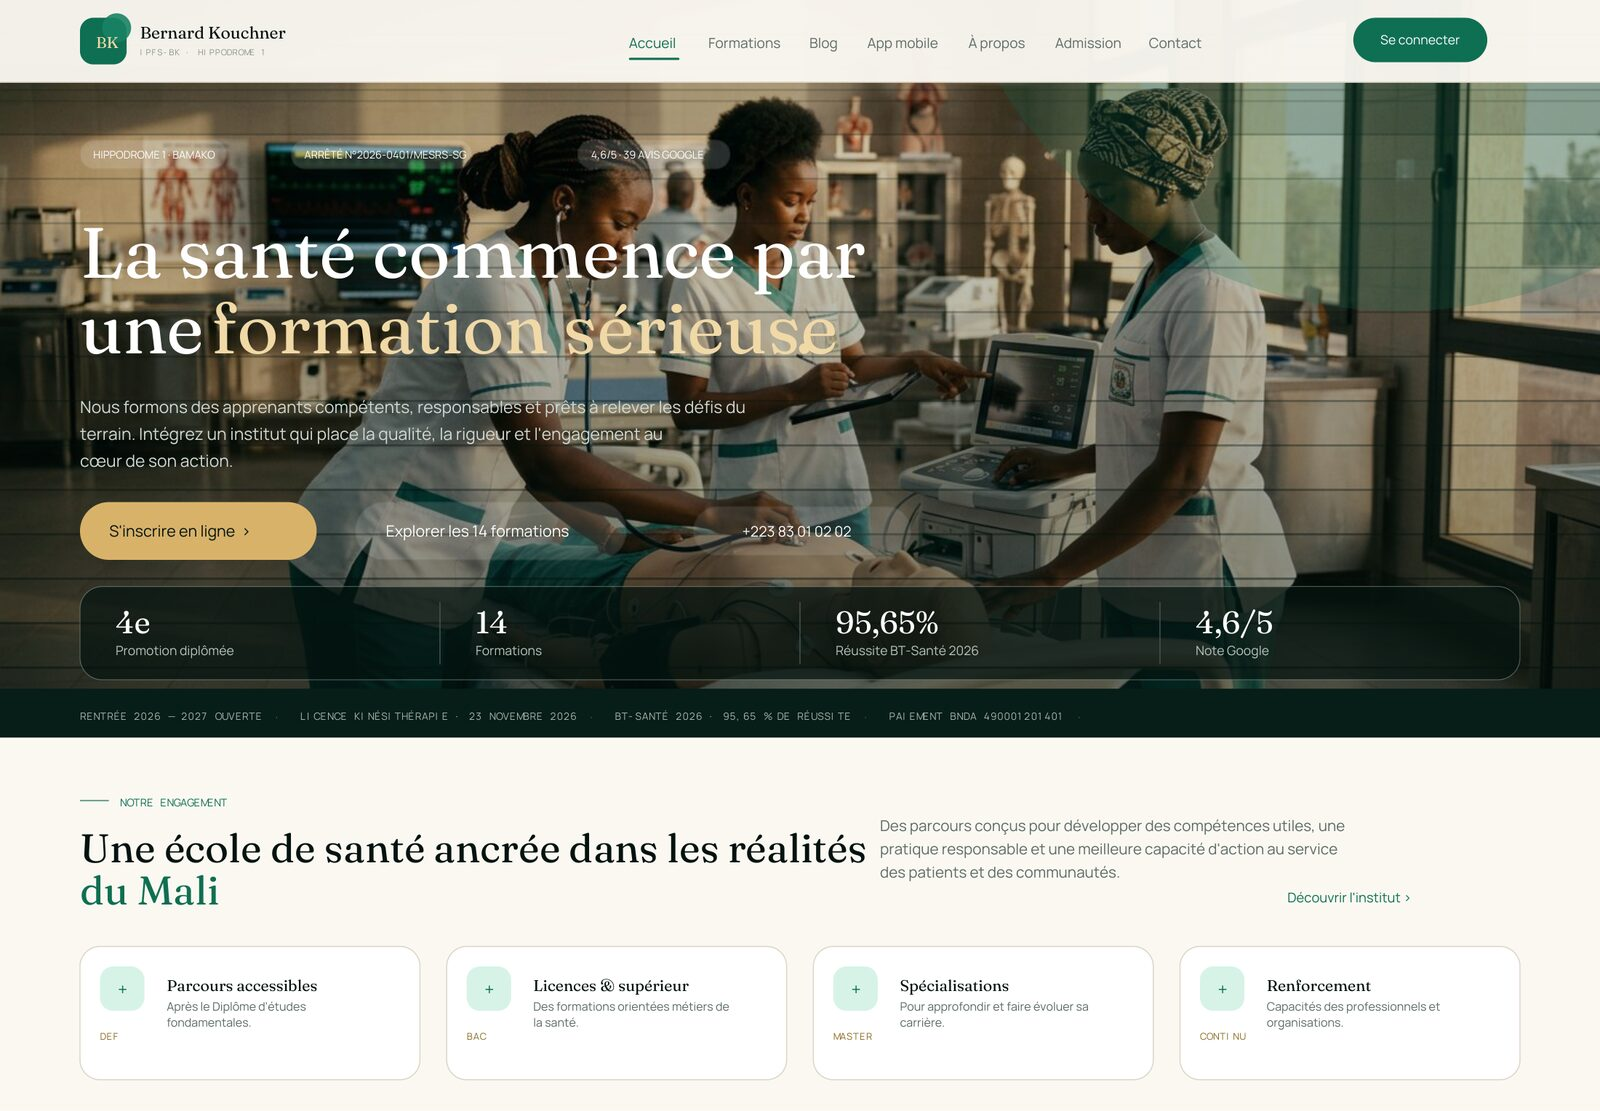
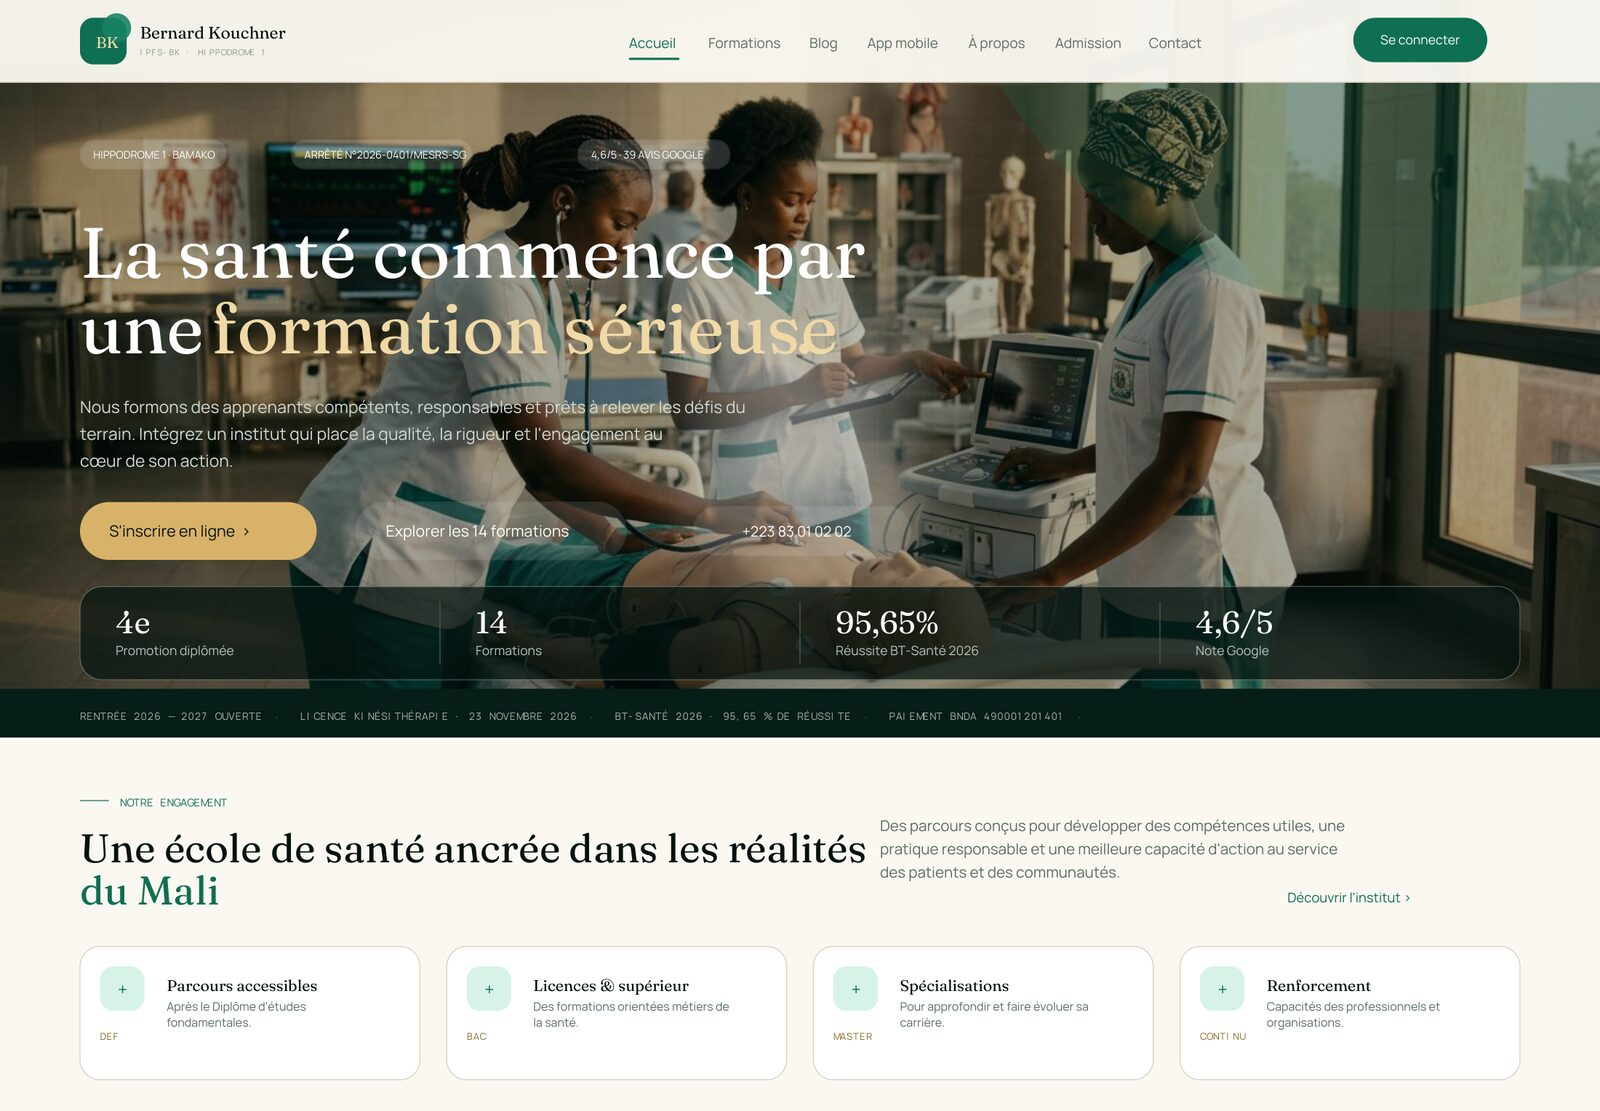
Site IPFS-BK : titres de page, voiles dégradés des aperçus

diff --git a/site/src/App.jsx b/site/src/App.jsx
@@ -15,10 +15,26 @@ import Espace from './pages/Espace.jsx';
 import { formations, articles, school } from './data/content.js';
 import { MessageCircleIcon as MessageCircle } from 'lucide-react';
 
+const TITLES = {
+  '/': 'Institut Bernard Kouchner — IPFS-BK | École de santé à Bamako',
+  '/formations': 'Formations sanitaires — IPFS-BK Bamako',
+  '/blog': 'Actualités & blog — Institut Bernard Kouchner',
+  '/application': 'Application mobile — IPFS-BK',
+  '/a-propos': 'À propos — Institut Bernard Kouchner, Hippodrome 1',
+  '/admission': 'Admission en ligne — IPFS-BK',
+  '/contact': 'Contact — Institut Bernard Kouchner, Bamako',
+  '/personnel': 'Espace personnel — Version PC | IPFS-BK',
+  '/espace': 'Mon espace — IPFS-BK',
+  '/espace/connexion': 'Connexion — IPFS-BK',
+};
+
 function ScrollRestore() {
   const { pathname } = useLocation();
   useEffect(() => {
     window.scrollTo(0, 0);
+    const base = '/' + (pathname.split('/')[1] || '');
+    const title = TITLES[pathname] || TITLES[base];
+    if (title) document.title = title;
   }, [pathname]);
   return null;
 }

diff --git a/site/scripts/preview.py b/site/scripts/preview.py
@@ -257,6 +257,28 @@ class Canvas:
         self.text(self.w - 72, self.h - 24, "BNDA 490001201401 · Arrêté n°2026-0401/MESRS-SG", size=9,
                   color=(0.5, 0.56, 0.53), anchor="right")
 
+    def soft(self, x, y, w, h, color=WHITE, opacity=0.2, feather=22):
+        """Voile translucide à bords fondus (dégradé alpha) — pas de bandes visibles."""
+        import numpy as np
+
+        size = 64
+        rgb = [int(v * 255) for v in color]
+        alpha = np.full((size, size), int(opacity * 255), dtype=np.uint8)
+        edge = np.linspace(0, int(opacity * 255), feather).astype(np.uint8)
+        alpha[:feather, :] = np.minimum(alpha[:feather, :], edge[:, None])
+        alpha[-feather:, :] = np.minimum(alpha[-feather:, :], edge[::-1][:, None])
+        alpha[:, :feather] = np.minimum(alpha[:, :feather], edge[None, :])
+        alpha[:, -feather:] = np.minimum(alpha[:, -feather:], edge[::-1][None, :])
+
+        base = pymupdf.Pixmap(pymupdf.csRGB, pymupdf.IRect(0, 0, size, size), False)
+        base.set_rect(base.irect, tuple(rgb))
+        mask = pymupdf.Pixmap(pymupdf.csGRAY, pymupdf.IRect(0, 0, size, size), False)
+        mask.set_rect(mask.irect, (255,))
+        for row in range(size):
+            for col in range(size):
+                mask.set_pixel(row, col, (int(alpha[row, col]),))
+        self.page.insert_image(pymupdf.Rect(x, y, x + w, y + h), pixmap=pymupdf.Pixmap(base, mask))
+
     def save(self, name):
         pix = self.page.get_pixmap(dpi=110)
         target = OUT / f"{name}.png"
@@ -269,18 +291,16 @@ class Canvas:
 def page_home():
     c = Canvas()
     c.img("hero.jpg", 0, 0, W, 620)
-    for i in range(16):
-        y0 = i * 40
-        c.rect(0, y0, W, 42, fill=INK, opacity=0.16 + 0.42 * (i / 15) ** 1.6)
-    for i in range(4):
-        c.rect(0, i * 30, W, 32, fill=INK, opacity=0.16)
+    c.rect(0, 0, W, 620, fill=INK, opacity=0.34)
+    c.soft(0, 210, W, 300, opacity=0.30, feather=30)
+    c.soft(-40, 300, W + 80, 250, opacity=0.22, feather=30)
     c.circle(1260, -140, 420, fill=(15 / 255, 111 / 255, 82 / 255), opacity=0.22)
     c.header()
 
     for cxp, cxl in ((72, "Hippodrome 1 · Bamako"), (262, "Arrêté n°2026-0401/MESRS-SG"),
                      (520, "4,6/5 · 39 avis Google")):
-        c.chip(cxp, 126, cxl, fg=WHITE, bg=(1, 1, 1), size=9.5, h=26, padx=12,
-               stroke=(0.7, 0.75, 0.73), opacity=0.16)
+        c.chip(cxp, 126, cxl, fg=WHITE, bg=WHITE, size=9.5, h=26, padx=12,
+               stroke=(0.92, 0.96, 0.94), opacity=0.16)
 
     c.text(72, 250, "La santé commence par", size=64, color=WHITE, serif=True)
     c.text(72, 318, "une", size=64, color=WHITE, serif=True)
@@ -291,9 +311,9 @@ def page_home():
               "Intégrez un institut qui place la qualité, la rigueur et l'engagement au cœur de son action.",
               15, 660, color=(0.82, 0.86, 0.84), lh=24)
     c.btn(72, 452, "S'inscrire en ligne  →", h=52, bg=GOLD, fg=INK, size=14)
-    c.btn(320, 452, "Explorer les 14 formations", h=52, bg=(1, 1, 1), fg=WHITE, size=14,
-          stroke=(0.72, 0.78, 0.76), opacity=0.14)
-    c.rect(624, 456, 196, 44, fill=(1, 1, 1), r=22, stroke=(0.6, 0.66, 0.64), opacity=0.12)
+    c.btn(320, 452, "Explorer les 14 formations", h=52, bg=WHITE, fg=WHITE, size=14,
+          stroke=(0.95, 0.98, 0.97), opacity=0.12)
+    c.rect(624, 456, 196, 44, fill=WHITE, r=22, stroke=(0.95, 0.98, 0.97), opacity=0.12)
     c.text(722, 483, "+223 83 01 02 02", size=13, color=WHITE, anchor="center")
 
     c.rect(72, 528, 1296, 84, fill=(4 / 255, 19 / 255, 15 / 255), r=20, stroke=(0.42, 0.47, 0.45), opacity=0.72)
